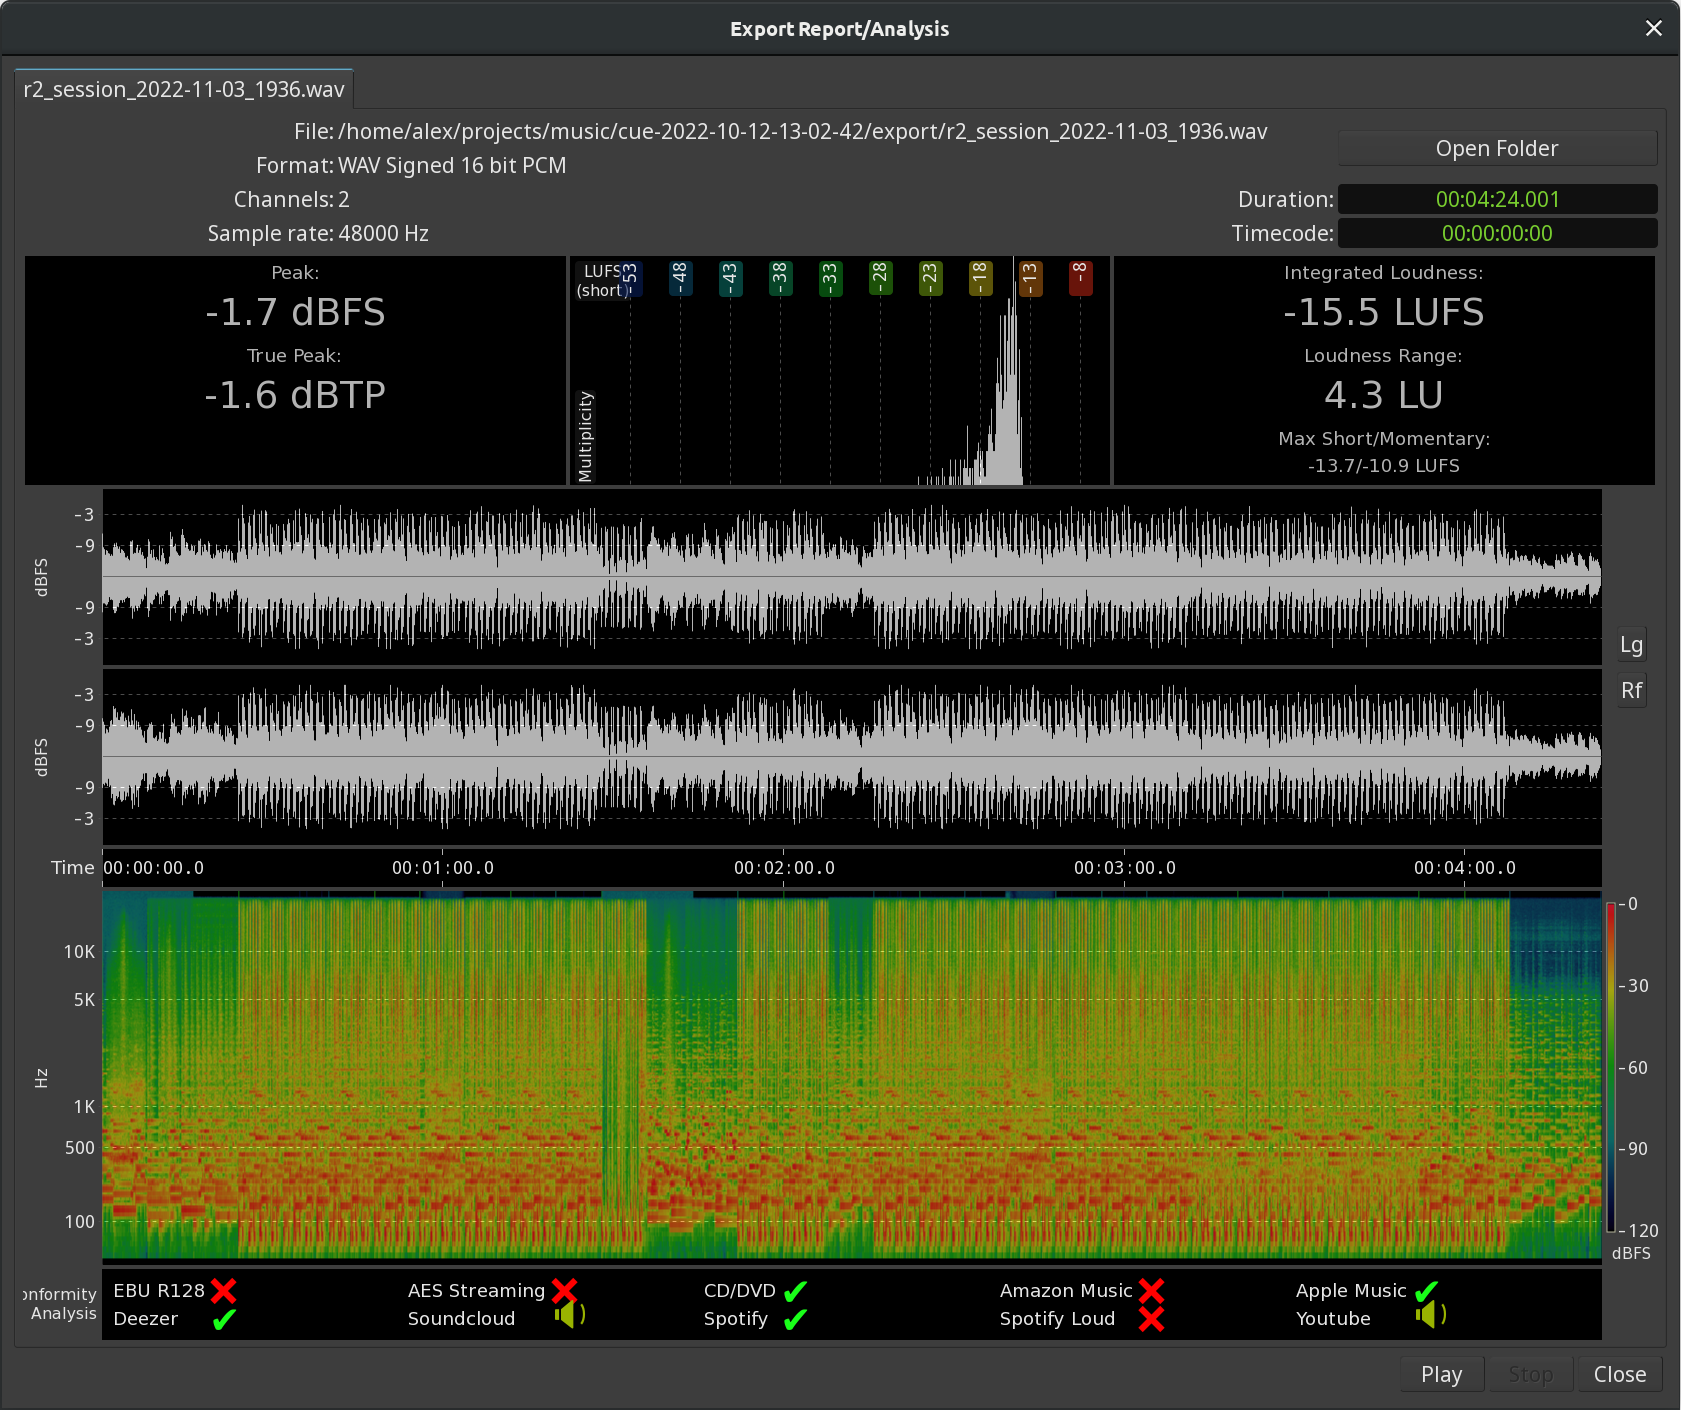
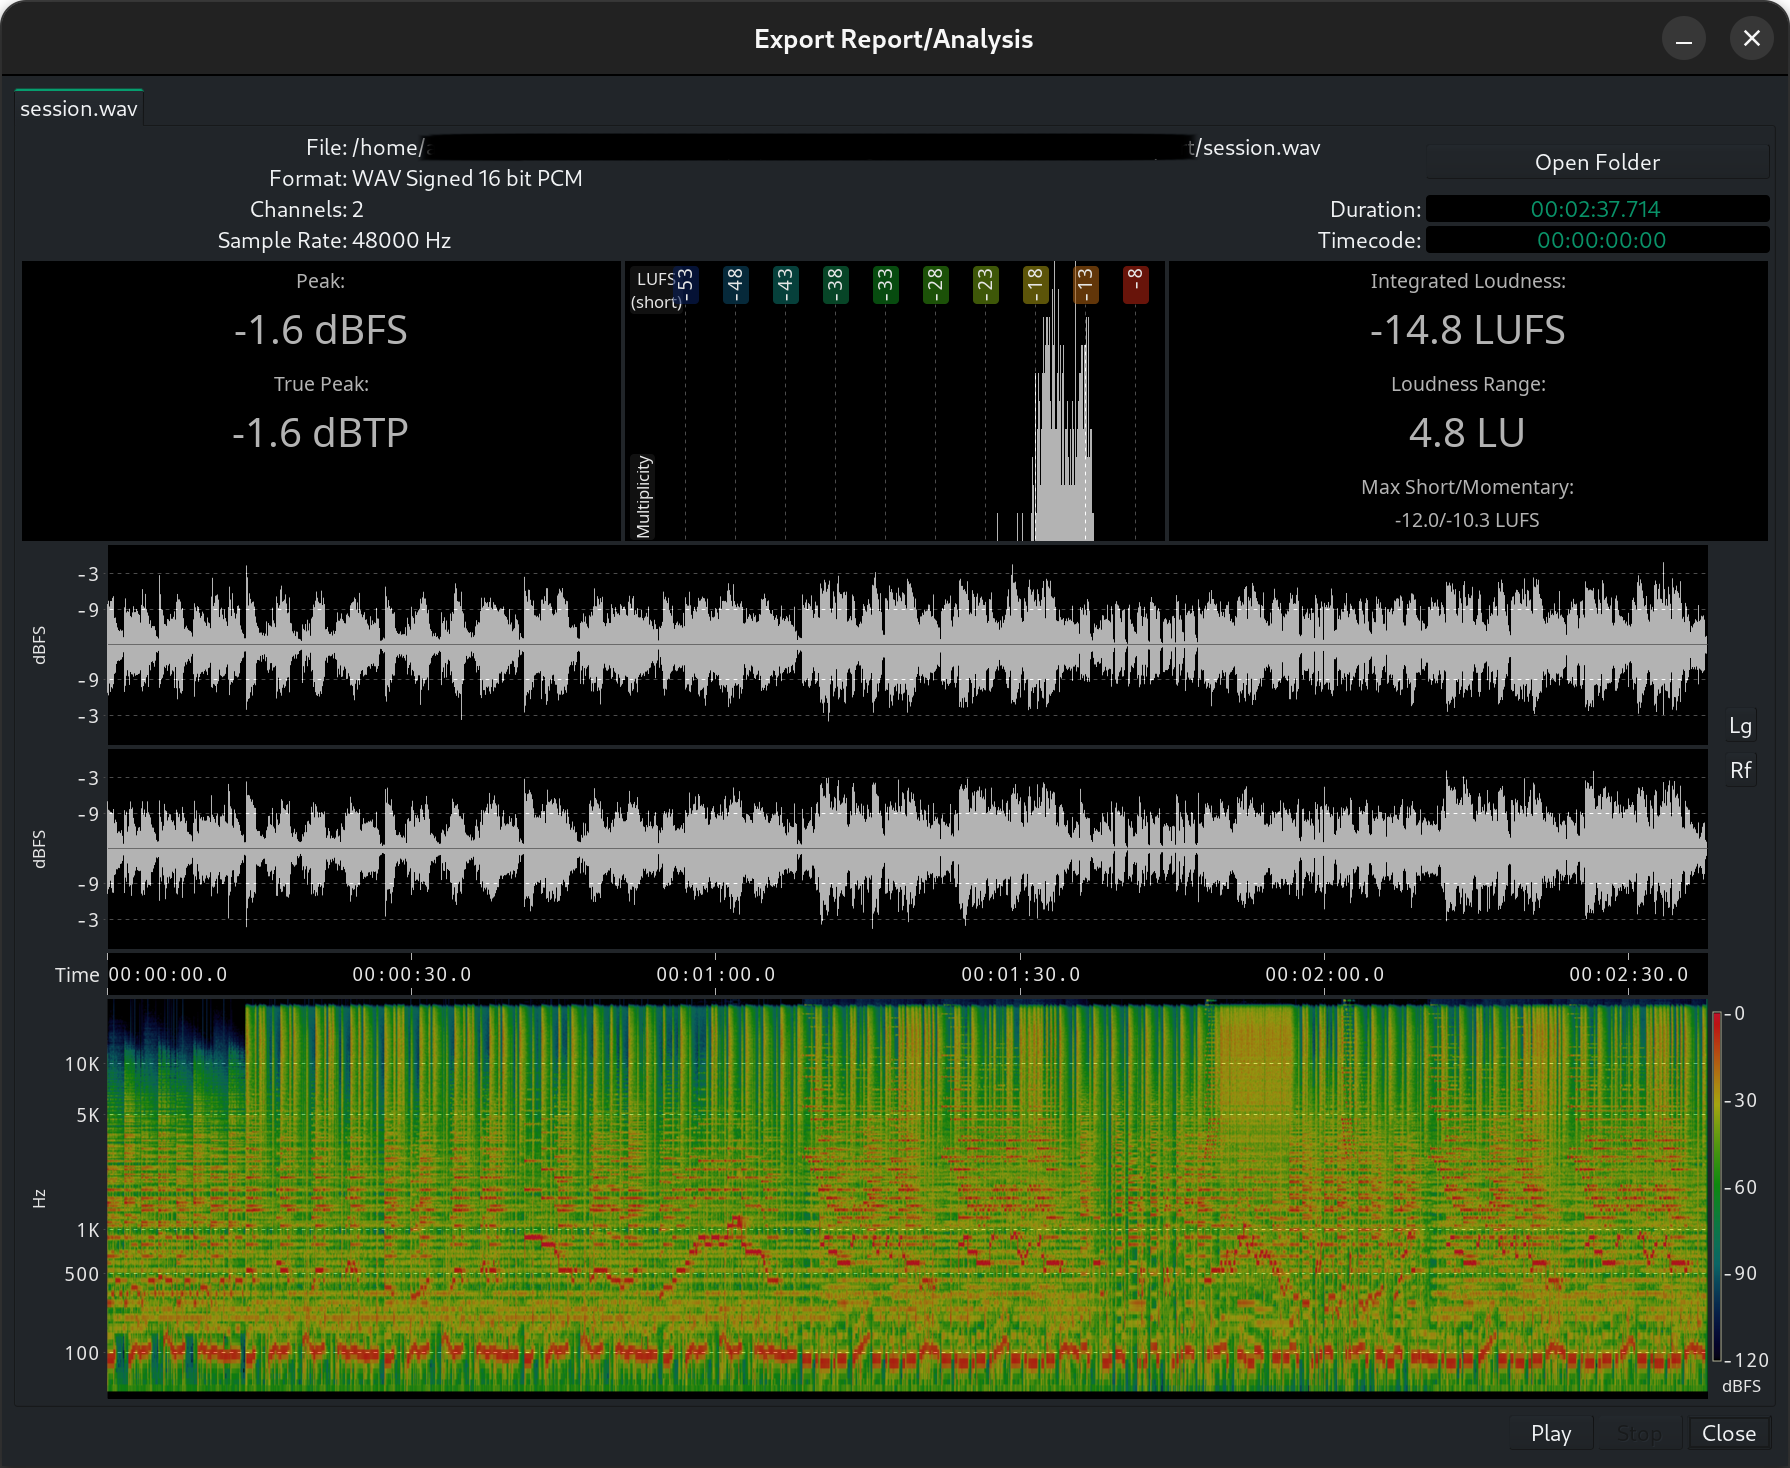
Update screenshots, add missing heading IDs

diff --git a/include/loudness-analyzer.html b/include/loudness-analyzer.html
@@ -1,14 +1,14 @@
 <p>
-  The Loudness Analyzer and Normalizer is a tool that is useful at the
+  The <em>Loudness Analyzer and Normalizer</em> tool is useful at the
   end of the mixing process to make the final audio file comply with
   different specs regarding loudness.
 </p>
 
 <p class="note">
-  This is a rather advanced mode. When using the Loudness Analyzer &amp;
-  Normalizer (or <dfn>LAN</dfn>), one has to make sure than normalization
+  This is a rather advanced mode. When using the <em>Loudness Analyzer &amp;
+  Normalizer</em> (or <dfn>LAN</dfn>), one has to make sure than normalization
   is disabled when exporting.
-  <br>
+  <br><br>
   In general, it is recommended to just use <a href="@@export-format-profiles">
   automatic export normalization</a>, in the <a href="@@export-dialog">Export
   dialog</a>. This can also produce results for multiple targets at the
@@ -32,7 +32,9 @@
 <p>Either method show the following window:</p>
 
 <figure>
-  <img src="/images/pre_loudness.png" alt="The Loudness Analyzer realtime selector">
+  <img src="/images/pre_loudness.png"
+  	alt="The Loudness Analyzer realtime selector"
+  	width="50%" >
   <figcaption>
     The Loudness Analyzer realtime selector
   </figcaption>
@@ -52,13 +54,16 @@
 </p>
 
 <figure>
-  <img src="/images/loudness_analyzer.png" alt="The Loudness Analyzer and Normalizer">
+  <img
+  	src="/images/loudness_analyzer.png"
+  	alt="The Loudness Analyzer and Normalizer"
+  	width="75%" >
   <figcaption>
     The Loudness Analyzer and Normalizer
   </figcaption>
 </figure>
 
-<h2>The Loudness Graph</h2>
+<h2 id="loudness-graph">The Loudness Graph</h2>
 
 <p>
 	At the top of the window, a loudness graph visually represents the
@@ -73,7 +78,7 @@
 	<li><span style="color:blue;">Momentary loudness</span> using a sliding time window of 400 ms.</li>
 </ul>
 
-<h2>Normalization Parameters</h2>
+<h2 id="normalization-parameters">Normalization Parameters</h2>
 
 <p>
 	As loudness is a perceived sonic energy, and depends on the level, frequency,
@@ -115,7 +120,7 @@
 		hence the correction to apply</li>
 </ul>
 
-<h2>Presets</h2>
+<h2 id="presets">Presets</h2>
 
 <p>
 	A selection of presets is offered to simplify the normalization. These
@@ -157,8 +162,17 @@
 	Post-<a href="@@export-dialog">Export</a> analysis.
 </p>
 
-<h2>The Conformity Analysis Panel</h2>
+<figure>
+  <img
+  	src="/images/export-loudness-report.png"
+  	alt="The loudness report"
+  	width="75%" >
+  <figcaption>
+    The loudness report
+  </figcaption>
+</figure>
 
+<h2 id="conformity-analysis-panel">The Conformity Analysis Panel</h2>
 
 <p>
 	At the lower right end of the window is a <em>Conformity Analysis</em>

diff --git a/include/export-dialog.html b/include/export-dialog.html
@@ -14,7 +14,7 @@
   </figcaption>
 </figure>
 
-<h2 id="export_file_format">File Format</h2>
+<h2 id="export-file_format">File Format</h2>
 
 <p>
   This tab contains controls for the format of the exported audio file(s).
@@ -62,7 +62,7 @@
 <li>Streaming</li>
 </ul>
 
-<h2 id="export_location">The location</h2>
+<h2 id="export-location">The location</h2>
 
 <p>
   Aside from providing a way to tell Ardour <em>where</em> to put the created file(s),
@@ -90,7 +90,7 @@
   a button to list all the files that would be erased and replaced.
 </p>
 
-<h2 id="export_overwrite">Overwriting Files</h2>
+<h2 id="export-overwrite">Overwriting Files</h2>
 
 <p>
   Ardour checks whether exporting will overwriting existing files. If such
@@ -106,10 +106,13 @@
   </figcaption>
 </figure>
 
-<h2 id="export_analyze">Analyze exported audio</h2>
+<h2 id="export-analyze">Analyze exported audio</h2>
 
 <figure>
-  <img class="hdimage" src="/images/export-report-analysis.png" alt="The Export Report/Analysis window">
+  <img class="hdimage"
+    src="/images/export-report-analysis.png"
+    alt="The Export Report/Analysis window"
+    width="50%" >
   <figcaption>
     The Export Report/Analysis window
   </figcaption>
@@ -144,7 +147,7 @@
   <li>a graph of the multiplicity of the peaks at the different loudness levels.</li>
 </ul>
 
-<h2 id="export_timespan">Time Span</h2>
+<h2 id="export-timespan">Time Span</h2>
 
 <figure>
   <img class="hdimage" src="/images/export-dialog-timespan.png" alt="The Time Span tab">
@@ -166,7 +169,7 @@
   the <kbd class="option">RT</kbd> checkbox next to each time span.
 </p>
 
-<h2 id="export_channels">Channels</h2>
+<h2 id="export-channels">Channels</h2>
 
 <figure>
   <img class="hdimage" src="/images/export-dialog-channels.png" alt="The Channels tab">
